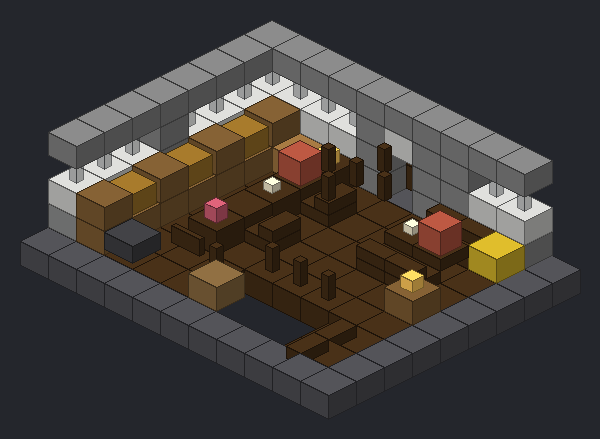
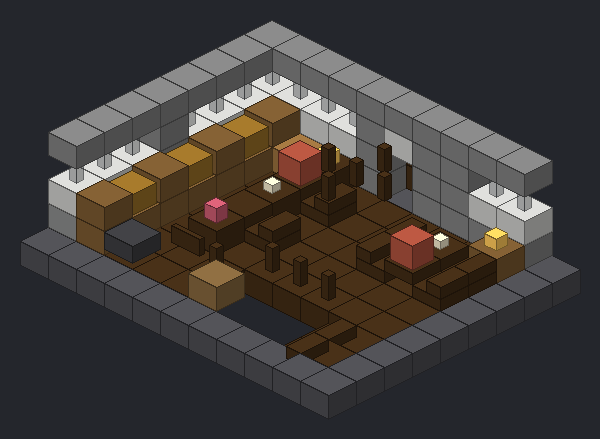
WIP: smithy/inn/guild/lights, final light pass

Changed region(s): [[0.6, 0.4442, 0.9, 0.7107]]

diff --git a/tools/capital/furnish.py b/tools/capital/furnish.py
@@ -103,13 +103,28 @@ class Furnish:
                 pass
         return cells
 
+    def ceil_at(self, x, z, y0, ymax):
+        """y0 から上へ、最初の空気でないブロックの y (灯りや鎖でなく、丸ごとか梁や板)。無ければ None"""
+        for yy in range(y0, ymax + 1):
+            t = self.v.get(x, yy, z)
+            if t is None or t in AIRS:
+                continue
+            n = base_name(t)
+            if any(k in n for k in ('lantern', 'chain', 'candle', 'carpet', 'potted', 'flower', 'pot')):
+                return None
+            return yy
+        return None
+
     def hang(self, x, z, y, h, drop=3, s=None):
-        """天井 (床の上 y、部屋の高さ h → 天井の下端は y + h) から鎖で吊る。灯りは床の上 drop の高さ。梁があればその下に鎖が付く"""
-        top = y + h - 1
+        """鎖で吊る灯り (灯りは床の上 drop の高さ)。鎖は上の最初のブロック (梁か天井) まで。届かなければ置かない"""
         ly = y + drop
-        for yy in range(ly + 1, top + 1):
+        c = self.ceil_at(x, z, ly + 1, y + h + 2)
+        if c is None:
+            return False
+        for yy in range(ly + 1, c):
             self.v.set(x, yy, z, self.CHAIN)
         self.v.set(x, ly, z, s or self.LANTH)
+        return True
 
     def chandelier(self, x, z, y, h, drop=3):
         """車輪の吊り灯り: 鎖の先に柵の十字、四つの腕の先に灯り"""
@@ -203,7 +218,7 @@ class Furnish:
                 if self.v.get(x, y, z) in (None, 'air', 'cave_air') and self.solid_at(x, y - 1, z):
                     self.v.set(x, y, z, '%s_carpet' % (border if edge else color))
 
-    def fautolight(self, rect, y, h, drop=None, tries=60):
+    def fautolight(self, rect, y, h, drop=None, tries=300):
         """立てる床で明るさが 8 より低い所に、天井から吊る灯りを足す (家具の上に吊って、通り道は空ける)"""
         v = self.v
         x0, z0, x1, z1 = rect
@@ -223,7 +238,8 @@ class Furnish:
                 for z in range(z0, z1 + 1):
                     if (x, z) in self._hold:
                         continue
-                    ok = all((v.get(x, yy, z) in (None, 'air', 'cave_air')) for yy in range(y + drop, y + h))
+                    c = self.ceil_at(x, z, y + drop + 1, y + h + 2)
+                    ok = c is not None and all((v.get(x, yy, z) in (None, 'air', 'cave_air')) for yy in range(y + drop, c))
                     if not ok:
                         continue
                     n = sum(1 for (a, b) in dark if abs(a - x) + abs(b - z) <= r)
@@ -233,6 +249,76 @@ class Furnish:
             if not best:
                 break
             self.hang(best[1], best[2], y, h, drop)
+            added += 1
+        return added
+
+    def flight(self, rect, y, h, drop=None):
+        """部屋を作り直さずに明るさだけ足す"""
+        x0, z0, x1, z1 = rect
+        self._fr = (x0, z0, x1, z1, y, h)
+        self._hold = set()
+        return self.fautolight(rect, y, h, drop)
+
+    def fring_thin(self, rect, y, h):
+        """壁ぎわの輪 (room() の棚: 樽・本棚・鉢が全部の壁に並ぶ) を間引く: 鉢と上の小物を消し、3 つ置きに 3 つ消す"""
+        x0, z0, x1, z1 = rect
+        v = self.v
+        ring = [(x, z0) for x in range(x0, x1 + 1)] + [(x1, z) for z in range(z0 + 1, z1 + 1)] +                [(x, z1) for x in range(x1 - 1, x0 - 1, -1)] + [(x0, z) for z in range(z1 - 1, z0, -1)]
+        small = ('potted_', 'decorated_pot', 'candle', 'flower_pot', 'cake')
+        for i, (x, z) in enumerate(ring):
+            for yy in range(y, y + 3):
+                t = v.get(x, yy, z) or ''
+                n = base_name(t)
+                if any(k in n for k in small) or (n == 'lantern' and 'hanging=false' in t):
+                    v.set(x, yy, z, self.air(yy))
+            if (i // 3) % 2 == 1:
+                for yy in range(y, y + 3):
+                    t = v.get(x, yy, z) or ''
+                    if base_name(t) in ('bookshelf', 'barrel', 'chiseled_bookshelf'):
+                        v.set(x, yy, z, self.air(yy))
+
+    def fpost_light(self, rect, y, h, tries=300):
+        """高い広間 (社) の灯り: 壁や柱に寄せた石の灯籠 (石煉瓦の壁の上に灯り) を、暗い所が減るまで足す"""
+        v = self.v
+        x0, z0, x1, z1 = rect
+        self._fr = (x0, z0, x1, z1, y, h)
+        self._hold = set()
+        added = 0
+        avoid = set()
+        for nm, (mx, my, mz) in v.marks.items():
+            if abs(my - y) <= 1:
+                for a in range(-2, 3):
+                    for b in range(-2, 3):
+                        avoid.add((mx + a, mz + b))
+        for x in range(x0 - 1, x1 + 2):
+            for z in range(z0 - 1, z1 + 2):
+                if '_door[' in (v.get(x, y, z) or ''):
+                    for a in range(-2, 3):
+                        for b in range(-2, 3):
+                            avoid.add((x + a, z + b))
+        for _ in range(tries):
+            box = (x0 - 10, x1 + 10, y - 2, y + h + 1, z0 - 10, z1 + 10)
+            L = ai.light_map(v.b, box)
+            cells = ai.stand_cells(v.b, rect, y, h)
+            dark = [(x, z) for (x, z) in cells if L.get((x, y, z), 0) < 8]
+            if not dark:
+                break
+            best = None
+            for (x, z) in cells:
+                if (x, z) in avoid:
+                    continue
+                if (v.get(x, y, z) or 'air') not in AIRS or (v.get(x, y + 1, z) or 'air') not in AIRS:
+                    continue
+                wall = any(self.solid_at(x + a, y, z + b) for (a, b) in ((1, 0), (-1, 0), (0, 1), (0, -1)))
+                n = sum(1 for (a, b) in dark if abs(a - x) + abs(b - z) <= 6)
+                n = n * (4 if wall else 1)          # 壁や柱ぎわを先に。足りなければ床の上にも
+                if n and (best is None or n > best[0]):
+                    best = (n, x, z)
+            if not best:
+                break
+            _, x, z = best
+            v.set(x, y, z, self.st.railing)
+            v.set(x, y + 1, z, self.LANT)
             added += 1
         return added
 
@@ -252,6 +338,25 @@ class Furnish:
 
     def npc(self, role, x, y, z):
         self.attendant(role, x, y, z)
+
+    # ------------------------------------------------------------ 仕上げの灯り (town.build の最後、小物の整理のあと)
+    LIGHT_DROP = {'smithy': 4}
+
+    def polish_final(self):
+        import interior_render as ir
+        self.fw = self.st.wood
+        saved = self.rng
+        self.rng = self.frng()
+        try:
+            for (nm, rect, y, h, mode) in ir.ROOMS:
+                if nm == 'shrine':
+                    self.fpost_light(rect, y, h)
+                else:
+                    self.flight(rect, y, h, self.LIGHT_DROP.get(nm))
+            for (name, rect, y, names, rugc) in self.UPPER:
+                self.flight(rect, y, 5 if y == 7 else 4)
+        finally:
+            self.rng = saved
 
     # ------------------------------------------------------------ 本体
     def polish_interiors(self):

diff --git a/tools/capital/furnish_big.py b/tools/capital/furnish_big.py
@@ -1,0 +1,79 @@
+# -*- coding: utf-8 -*-
+"""大きな施設 (鍛冶場・宿・組合・砦・館・社・語り部の家・墓守の小屋) の内装。furnish.Furnish の部品で作る。"""
+from __future__ import annotations
+
+
+class FurnishBig:
+    # ======================================================================= 鍛冶場
+    def fx_smithy(self):
+        """鍛冶場: 北の壁に炉 (共鳴炉は動かさない)、西に鍛冶師の台と仕事場、東に金床・焼き入れ桶・砥石の列、南の前に品の陳列"""
+        v = self.v
+        rect = (10, 10, 24, 18)
+        keep = {(x, z) for x in range(16, 19) for z in range(9, 12)}      # 炉と煙突
+        self.fclear(rect, 0, 7, keep=keep)
+        # 炉のわき: 薪と焼き入れの桶 (炉の前 (16..18, 12) は空ける)
+        v.set(15, 0, 11, 'coal_block')
+        v.set(19, 0, 11, 'water_cauldron[level=3]')
+        # 西の仕事場 (x 10..15, z 11..13): 鍛冶師の台 z=14 (西の端に柵の戸)
+        self.fcounter([(x, 14) for x in range(11, 16)],
+                      tops={(11, 14): self.LANT, (13, 14): self.candle(2), (15, 14): self.pot('south')})
+        self.fgate(10, 0, 14, 'north')
+        v.set(11, 0, 11, 'smithing_table')
+        v.set(12, 0, 11, 'anvil[facing=north]')
+        v.set(13, 0, 11, 'water_cauldron[level=3]')
+        v.set(14, 0, 11, 'grindstone[face=floor,facing=north]')
+        self.fcol(10, 11, [self.chest('east'), self.pot('east')])
+        self.fcol(10, 12, [self.barrel('east'), self.barrel('east')])
+        self.npc('smith', 12, 0, 12)
+        # 北の壁 z=10 の棚 (西): 設計の帳面と道具の樽
+        self.fwall([(x, 10) for x in range(10, 16)], 'south', [
+            ['bookshelf', 'bookshelf'], [self.barrel('south'), self.LANT], [self.chest('south'), self.candle(2)], [self.barrel('south'), self.barrel('south')],
+            ['crafting_table', None], [self.barrel('south'), 'potted_fern']])
+        # 東の仕事場 (z 11): 金床・焼き入れ桶・金床・鍛冶台・砥石。背の壁 z=10 は炭と樽
+        v.set(20, 0, 11, 'anvil[facing=north]')
+        v.set(21, 0, 11, 'water_cauldron[level=3]')
+        v.set(22, 0, 11, 'anvil[facing=north]')
+        v.set(23, 0, 11, 'smithing_table')
+        v.set(24, 0, 11, 'grindstone[face=floor,facing=north]')
+        self.fwall([(x, 10) for x in range(20, 25)], 'south', [
+            ['coal_block', 'coal_block'], [self.barrel('south'), self.LANT], ['coal_block', self.candle(2)], [self.barrel('south'), self.barrel('south')], ['coal_block']])
+        # 東の壁 x=24 の脇: 出来上がった品の棚
+        self.fwall([(24, z) for z in (13, 14, 15)], 'west', [[self.chest('west'), self.pot('west')], ['bookshelf', 'bookshelf']])
+        # 前 (南) の陳列の台 z=16 (半ブロック) と、客の通り
+        self.ftable([(x, 16) for x in range(20, 24)], tops={(20, 16): self.pot('south'), (21, 16): self.LANT, (22, 16): self.candle(3), (23, 16): 'potted_fern'})
+        self.fwall([(x, 18) for x in range(12, 25)], 'north', [
+            [self.barrel('up'), self.LANT], ['coal_block'], [self.barrel('up'), 'potted_fern'], [self.chest('north')], ['hay_block[axis=y]'], [self.barrel('up')]])
+        # 炉の前の灰色の敷物の代わりに、炭の灯り (炉の上の吊り灯りは鎖で)
+        self.hang(13, 12, 0, 7, 4)
+        self.hang(21, 13, 0, 7, 4)
+        self.hang(17, 14, 0, 7, 4)
+        self.hang(12, 16, 0, 7, 4)
+        self.hang(22, 17, 0, 7, 4)
+        self.fautolight(rect, 0, 7, drop=4)
+
+    # ======================================================================= 宿 (入れ物は作ったまま、並べ方の直しと灯り)
+    def fx_inn(self):
+        v = self.v
+        rect = (-42, 8, -10, 24)
+        self.fring_thin(rect, 0, 6)
+        # 酒の台 (z 21) の前の止まり木: 台に着くように 1 つ前 (z 20) へ
+        for x in (-41, -38, -35):
+            v.set(x, 0, 19, 'air')
+            self.chair(x, 0, 20, 'south')
+        # 談話室の肘掛け椅子は、低い机 (x -14) のすぐ両わきへ
+        for (x, z) in ((-16, 10), (-16, 12), (-12, 10), (-12, 12)):
+            v.set(x, 0, z, 'air')
+        for z in (10, 12):
+            self.chair(-15, 0, z, 'east')
+            self.chair(-13, 0, z, 'west')
+
+    def fx_guild(self):
+        rect = (52, -32, 76, -12)
+        self.fring_thin(rect, 0, 6)
+
+    def fx_fixes(self):
+        """机と椅子の向きの直し (語り部の家・館)"""
+        self.chair(-17, 5, -75, 'east')
+        self.chair(-15, 5, -75, 'west')
+        for x in (-52, -50):
+            self.chair(x, 5, -86, 'north')

diff --git a/tools/capital/interior_render.py b/tools/capital/interior_render.py
@@ -239,7 +239,7 @@ ROOMS = [
     # (名前, (x0, z0, x1, z1), 床の上 y, 高さ, 見る向き)
     ('smithy', (10, 10, 24, 18), 0, 7, 'se'),
     ('inn', (-42, 8, -10, 24), 0, 6, 'se'),
-    ('inn_upper', (-42, 8, -10, 24), 7, 6, 'se'),
+    ('inn_upper', (-42, 8, -10, 24), 7, 5, 'se'),
     ('apothecary', (55, 8, 64, 15), 0, 6, 'sw'),
     ('tool_shop', (35, -36, 43, -30), 0, 6, 'se'),
     ('guild', (52, -32, 76, -12), 0, 6, 'se'),
@@ -251,10 +251,11 @@ ROOMS = [
     ('mapmaker_loft', (85, 71, 92, 77), 6, 4, 'se'),
     ('keep', (20, -78, 35, -71), 5, 6, 'se'),
     ('hall', (-56, -94, -42, -86), 5, 6, 'se'),
-    ('shrine', (-77, -34, -51, -8), 0, 12, 'se'),
+    ('shrine', (-78, -35, -50, -7), 0, 12, 'se'),
     ('perch', (-92, 8, -86, 14), 0, 5, 'se'),
     ('black_market', (55, 42, 61, 48), 0, 5, 'se'),
     ('storyteller', (-17, -80, -11, -74), 5, 4, 'se'),
+    ('tavern_cellar', (-38, 38, -30, 44), -5, 4, 'se'),
     ('gravekeeper', (-132, -18, -128, -14), 0, 5, 'se'),
 ]
 

diff --git a/tools/capital/furnish_shops.py b/tools/capital/furnish_shops.py
@@ -204,8 +204,10 @@ class FurnishShops:
         # 客の側: 酒の台の前の止まり木 (椅子)、東の机と椅子
         self.chair(-35, 0, 39, 'west')
         self.chair(-35, 0, 41, 'west')
-        self.table_set(-32, 39, -31, 39, tops={(-32, 39): self.candle(2), (-31, 39): self.pot('south')})
-        self.fcol(-30, 41, [self.barrel('up'), self.LANT])
-        self.fcol(-30, 38, ['hay_block[axis=y]'])
+        self.ftable([(-31, 39), (-31, 40)], tops={(-31, 39): self.candle(2), (-31, 40): self.pot('south')})
+        for z in (39, 40):
+            self.chair(-32, 0, z, 'east')
+            self.chair(-30, 0, z, 'west')
+        self.fcol(-30, 38, [self.barrel('up'), self.LANT])
         self.chandelier(-33, 40, 0, 5, drop=3)
         self.fautolight(rect, 0, 5)

diff --git a/tools/capital/facilities.py b/tools/capital/facilities.py
@@ -19,12 +19,13 @@ from interiors import Interiors, HOME_THEMES
 from furnish import Furnish
 from furnish_shops import FurnishShops
 from furnish_shops2 import FurnishShops2
+from furnish_big import FurnishBig
 from vox import Body, DX, OPP, CW, gable_roof, hanging_sign, lamp_post, tree, bench, flowerbed, turret, rosette, hip_spire
 
 PLANK = '%s_planks'
 
 
-class Facilities(FurnishShops2, FurnishShops, Furnish, Interiors, BackAlley):
+class Facilities(FurnishBig, FurnishShops2, FurnishShops, Furnish, Interiors, BackAlley):
     # ---------------------------------------------------------------- 小道具
     def _init_fac(self):
         self.openings = []   # (外の面の x, z, 外向き): 戸の前。通りの灯りを避ける

diff --git a/tools/capital/audit_interiors.py b/tools/capital/audit_interiors.py
@@ -34,8 +34,6 @@ def emission(s):
     n = base_name(s)
     if n in LIGHT and n != 'campfire':
         return LIGHT[n]
-    if n in ('furnace', 'smoker', 'blast_furnace') and prop(s, 'lit') == 'true':
-        return 13
     if n == 'campfire' and prop(s, 'lit') == 'true':
         return 15
     if n.endswith('candle') and prop(s, 'lit') == 'true':

diff --git a/tools/capital/town.py b/tools/capital/town.py
@@ -1779,6 +1779,7 @@ class Town(Facilities):
             n += 1
         self.tidy_for_walkers()
         self.drop_floaters()
+        self.polish_final()
         self.v.connect()
         return self.v
 
